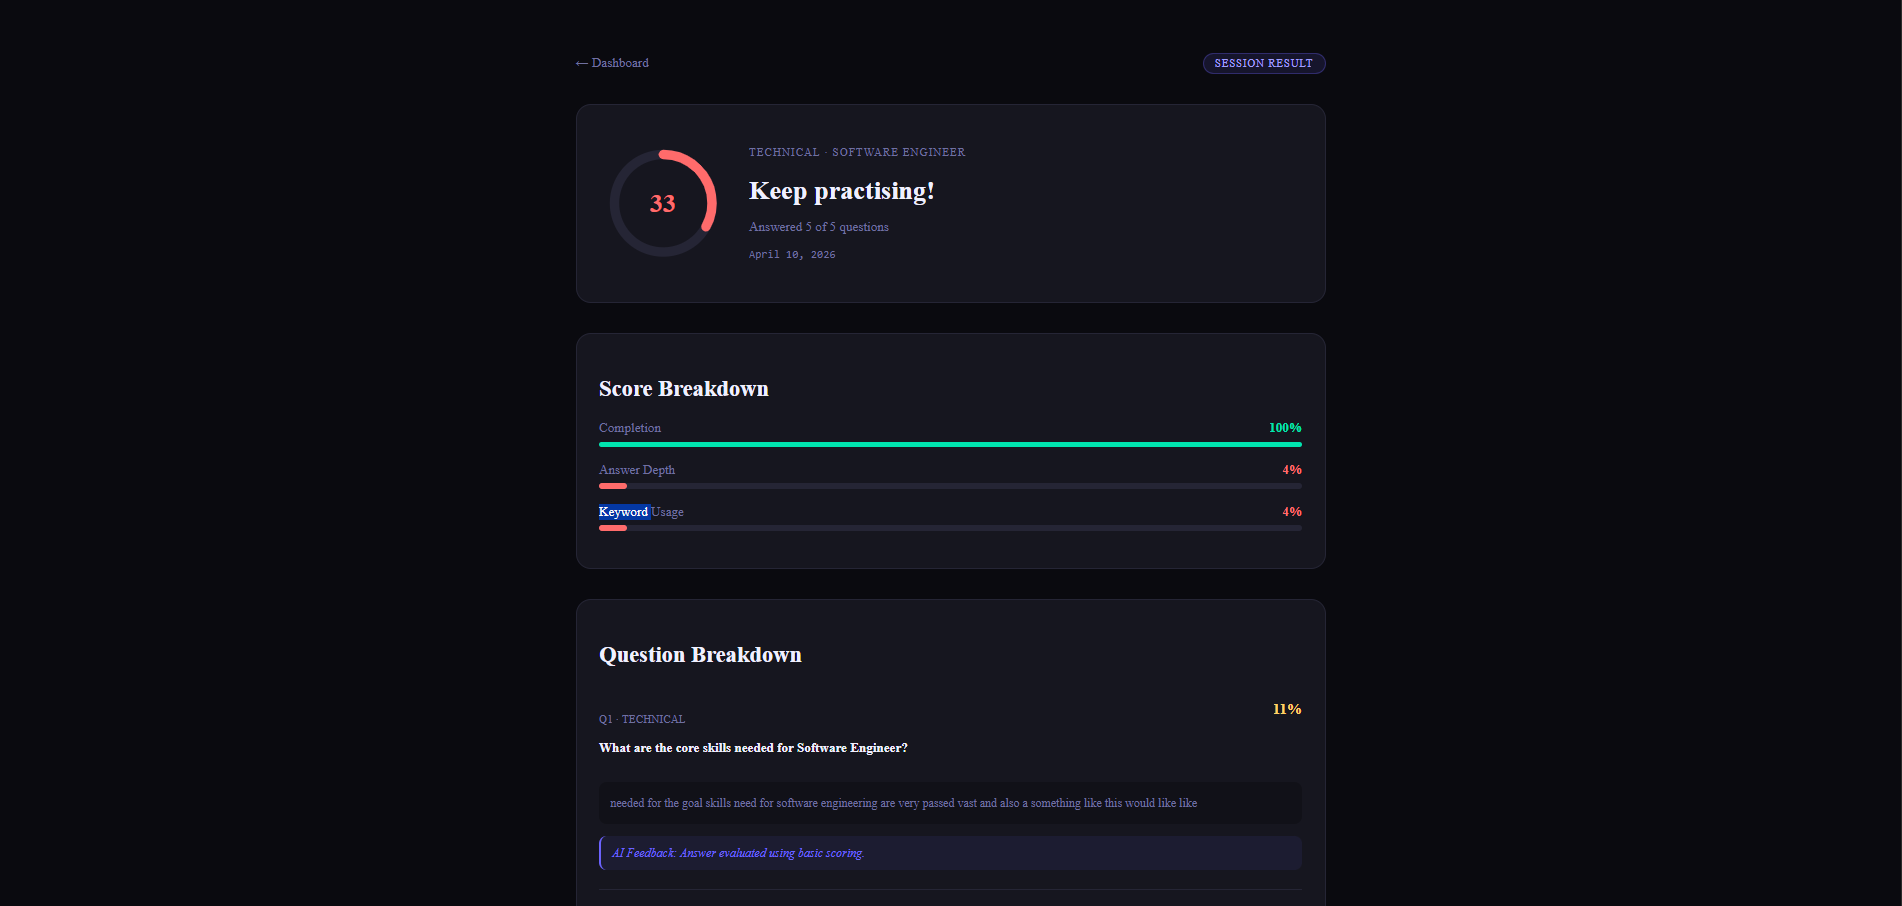
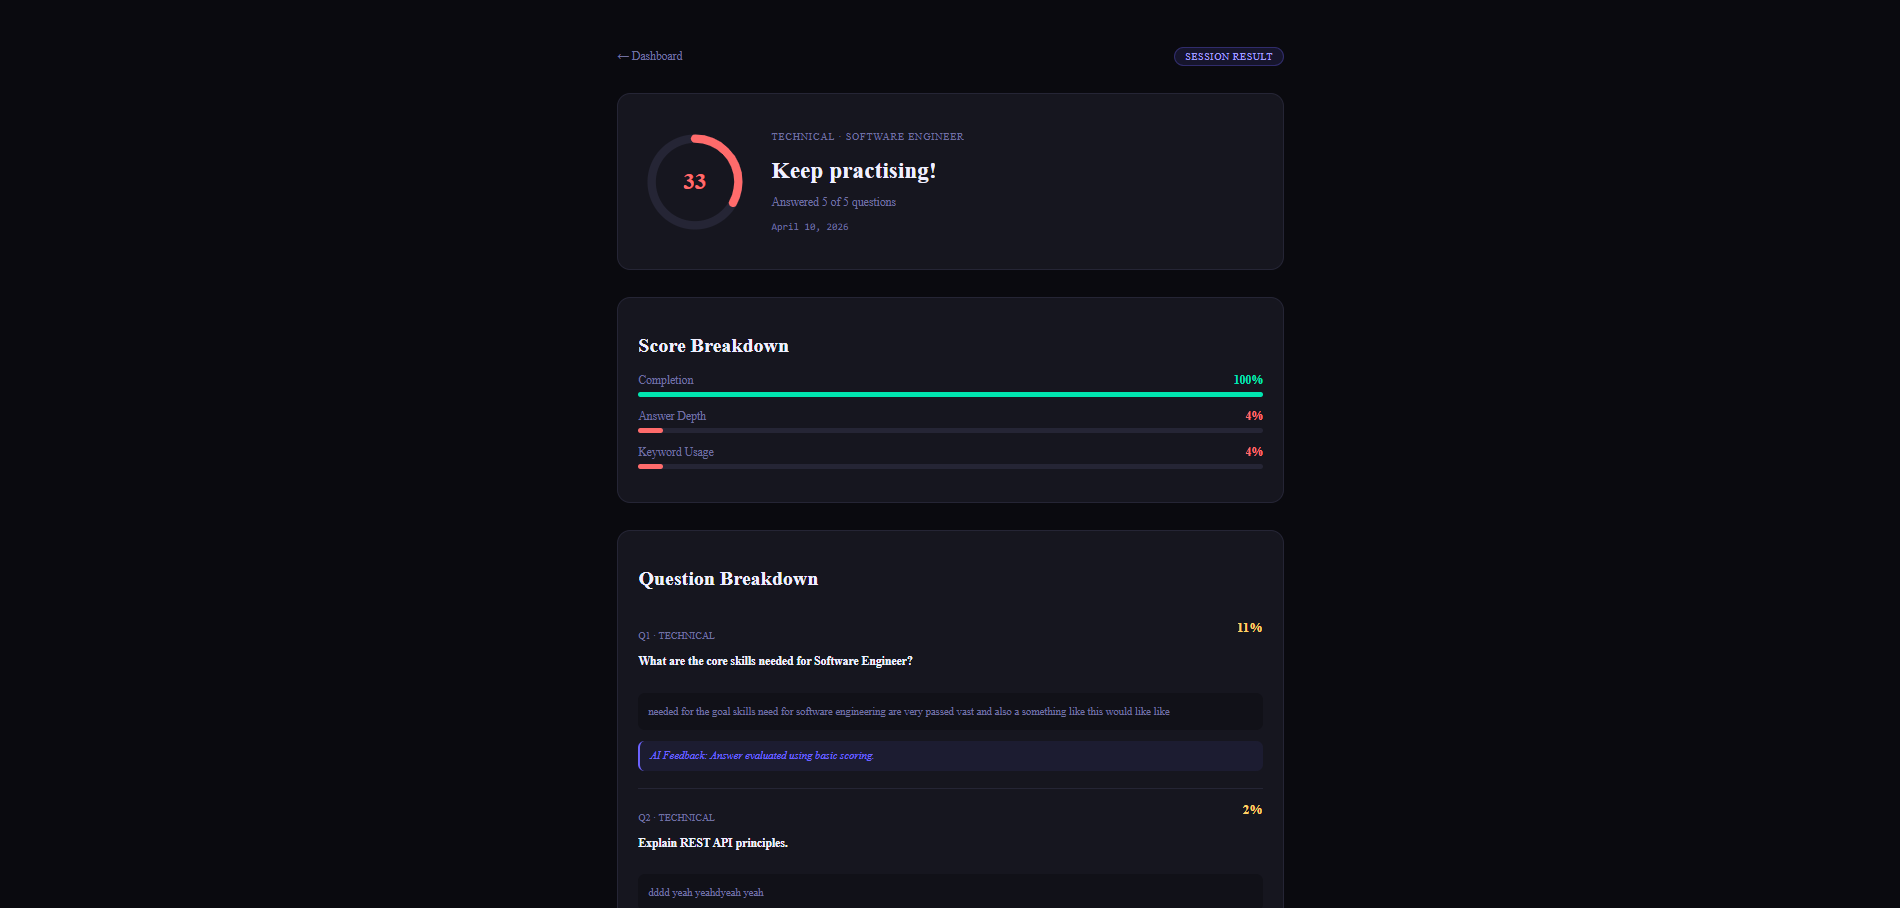
docs: update screenshots section with two result pages

diff --git a/README.md b/README.md
@@ -20,12 +20,13 @@
 
 ## 📸 Screenshots
 
-> _Add screenshots of: Landing Page, Dashboard, Interview Session, Results Page, Resume Analyzer_
+| Dashboard | Interview Session |
+|-----------|------------------|
+| ![dashboard](./docs/screenshots/dashboard.png) | ![session](./docs/screenshots/session.png) |
 
-| Dashboard | Interview Session | Results |
-|-----------|------------------|---------|
-| ![dashboard](./docs/screenshots/dashboard.png) | ![session](./docs/screenshots/session.png) | ![results](./docs/screenshots/results.png) |
-
+| Results — Summary | Results — Detail |
+|-------------------|-----------------|
+| ![results1](./docs/screenshots/results1.png) | ![results2](./docs/screenshots/results2.png) |
 ---
 
 ## ✨ Features
